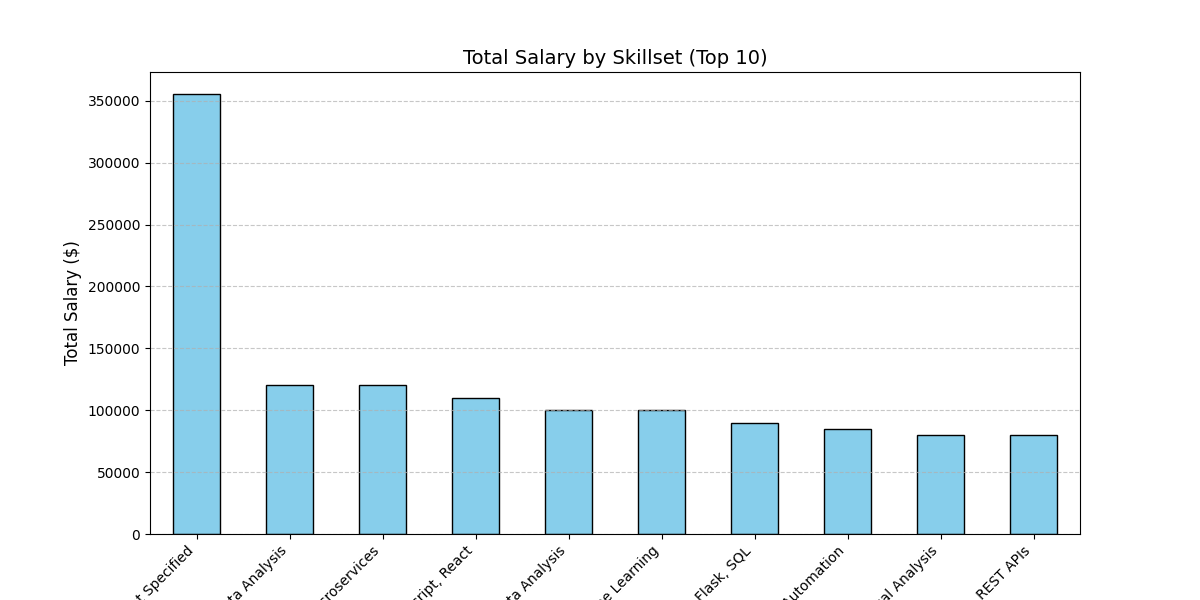
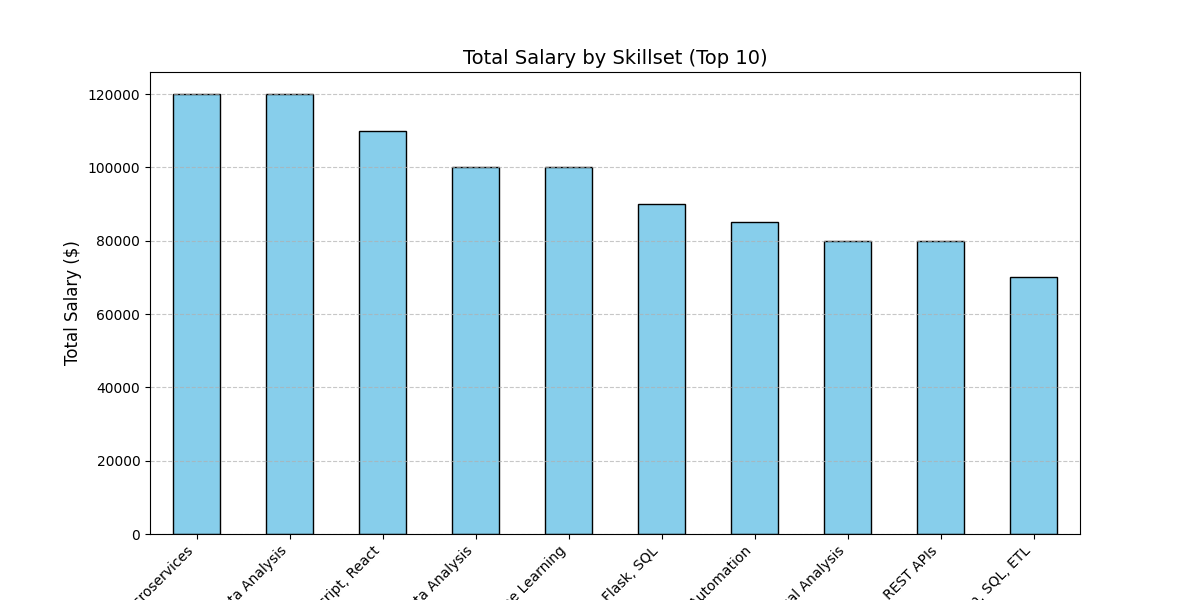
Updated

diff --git a/analysis.py b/analysis.py
@@ -42,7 +42,7 @@ def process_data(jobs):
 
 def plot_salary_vs_skillset(df):
     """Plots a bar chart of total salary by skillset"""
-    skillset_salary = df.groupby("skillset")["salary"].sum().sort_values(ascending=False).head(10)
+    skillset_salary = df.groupby("skillset")["salary"].mean().sort_values(ascending=False).head(10)
     
     plt.figure(figsize=(12, 6))
     skillset_salary.plot(kind="bar", color="skyblue", edgecolor="black")
